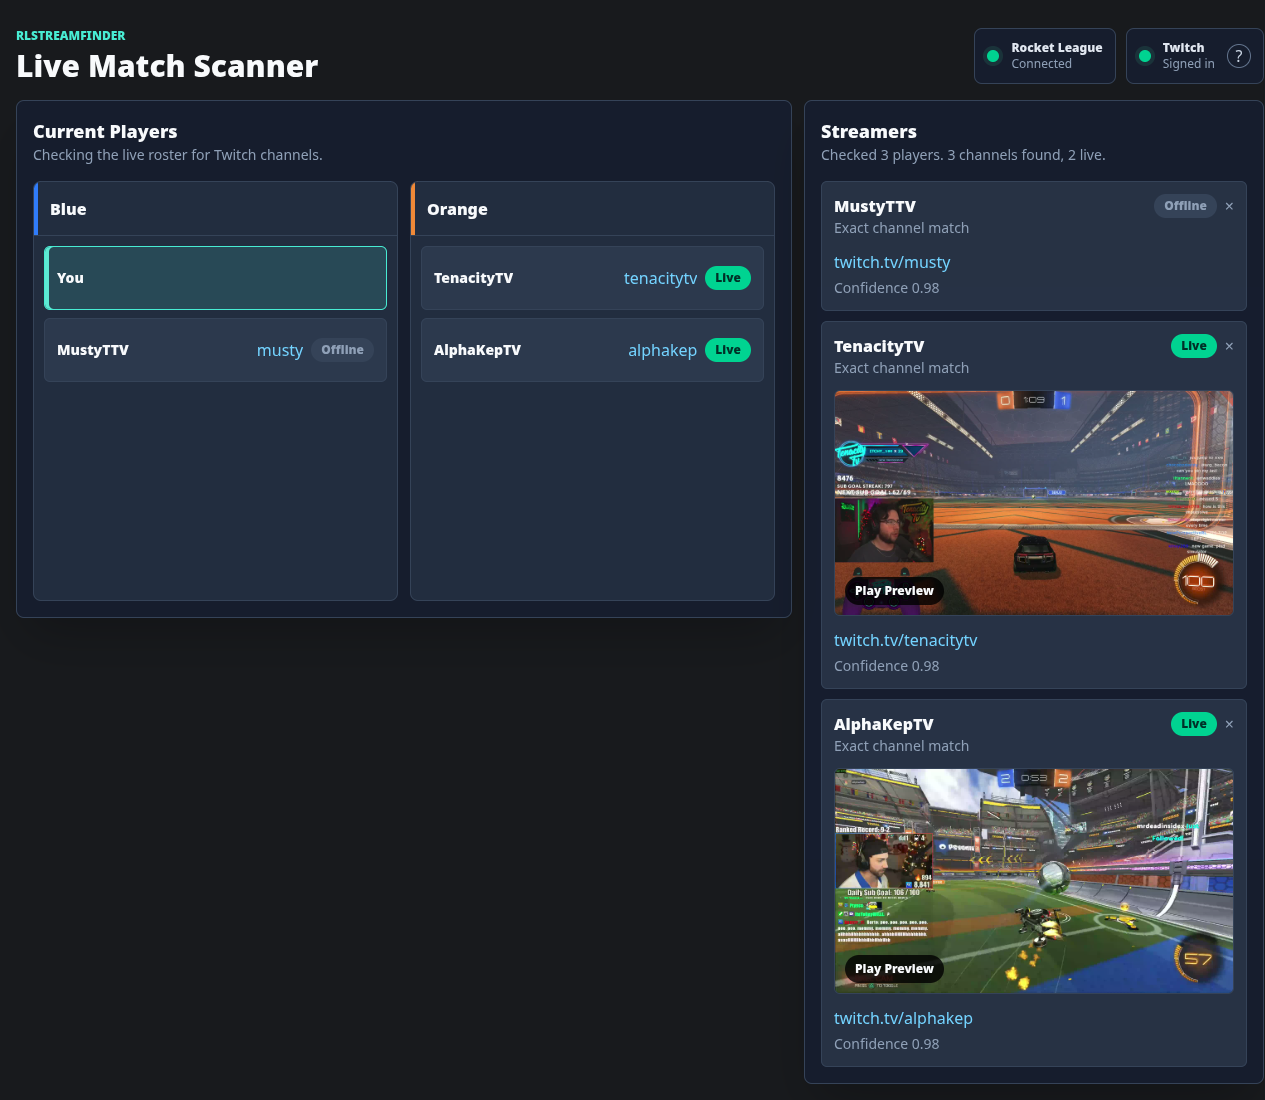
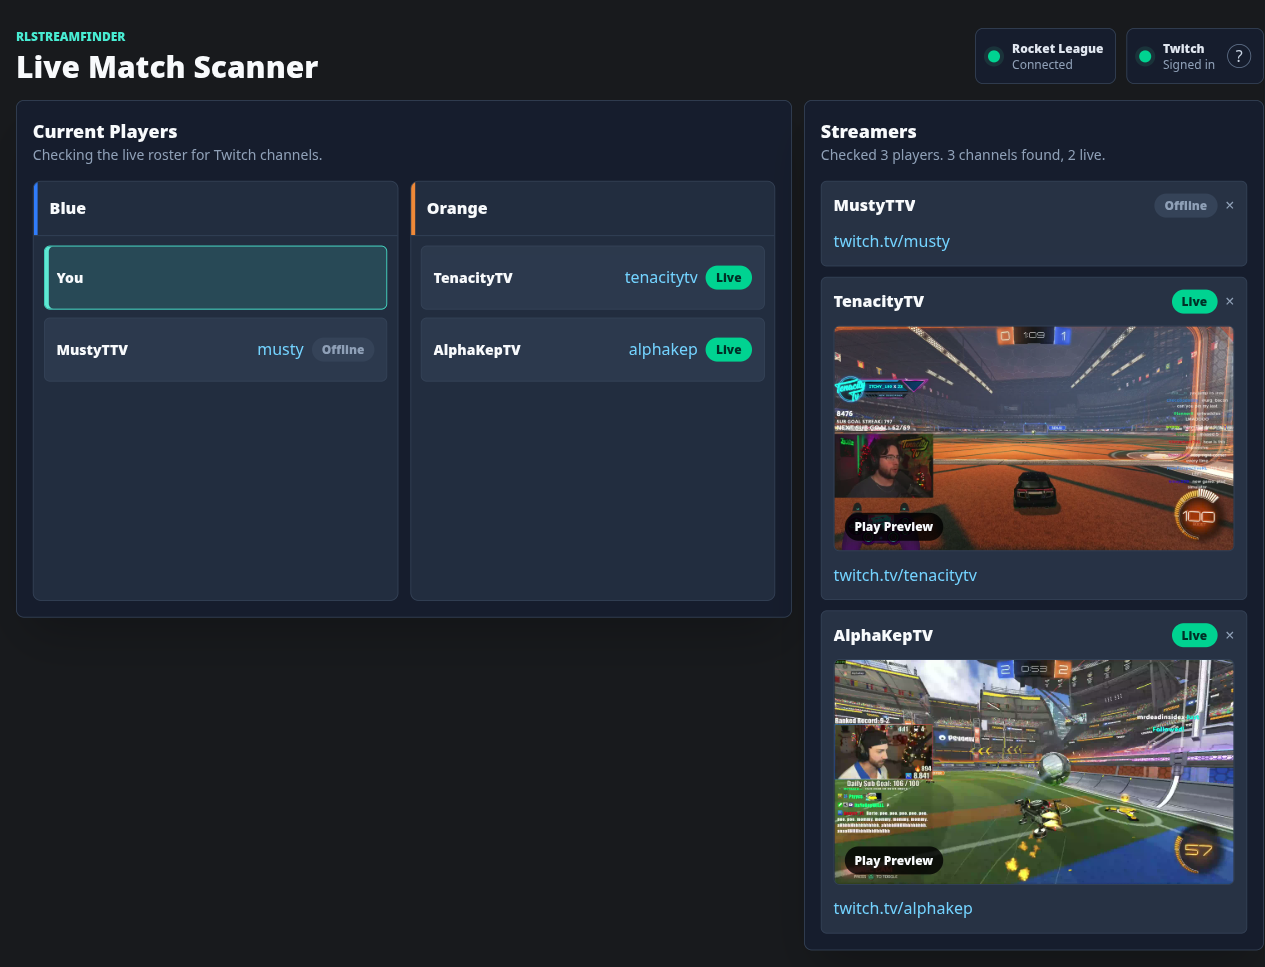
fix: simplify streamer cards and refresh demo screenshot

diff --git a/src/renderer/src/components/StreamersPanel.tsx b/src/renderer/src/components/StreamersPanel.tsx
@@ -59,7 +59,6 @@ function StreamerCard({ item, onPreview, onClose }) {
       <div className="mb-3 flex items-start justify-between gap-3">
         <div className="min-w-0">
           <h3 className="truncate text-base font-extrabold">{item.playerName}</h3>
-          <p className="text-sm text-slate-400">{item.reason}</p>
         </div>
         <div className="flex items-center gap-2">
           {twitchStatus.label ? <Pill live={twitchStatus.live}>{twitchStatus.label}</Pill> : null}
@@ -77,7 +76,6 @@ function StreamerCard({ item, onPreview, onClose }) {
         <StreamerStats item={item} />
         {item.isLive && item.title ? <p className="mt-2 text-sm text-slate-50">{item.title}</p> : null}
       </> : null}
-      <p className="mt-1 text-sm text-slate-400">Confidence {item.confidence}</p>
     </article>
   );
 }

diff --git a/test/e2e/electron-smoke.spec.ts b/test/e2e/electron-smoke.spec.ts
@@ -264,7 +264,7 @@ test("launches Electron, renders the app, exposes preload bridge, and automatica
     await expect(page.getByRole("button", { name: "Verify", exact: true })).toHaveCount(0);
     await expect(page.getByText("Scan new rosters automatically")).toHaveCount(0);
     await expect(page.getByText("playwright-smoke", { exact: true })).toHaveCount(0);
-    await expect(page.getByText("Exact cleaned login match")).toBeVisible();
+    await expect(page.getByText(/Confidence|Exact cleaned login match|Exact login match/)).toHaveCount(0);
     await expect(page.getByText("Live").first()).toBeVisible();
     await expect(page.getByRole("link", { name: /twitch\.tv\/garrettg/i })).toBeVisible();
     await expect(page.getByRole("link", { name: "twitch.tv/coolguy123" })).toBeVisible();

diff --git a/test/e2e/demo-screenshot.spec.ts b/test/e2e/demo-screenshot.spec.ts
@@ -52,9 +52,10 @@ test("captures the fixed Musty, TenacityTV, and AlphaKepTV demo", async ({}, tes
           { Name: "Orange", TeamNum: 1 },
         ],
       };
-      for (const channel of ["twitch:verify", "players:check", "rocket-league:connect", "rocket-league:status"]) {
+      for (const channel of ["setup:status", "twitch:verify", "players:check", "rocket-league:connect", "rocket-league:status"]) {
         ipcMain.removeHandler(channel);
       }
+      ipcMain.handle("setup:status", () => true);
       ipcMain.handle("twitch:verify", () => ({ login: "demo-viewer" }));
       ipcMain.handle("players:check", (_event, playerNames) => playerNames.map((playerName) => {
         const result = results[playerName];
